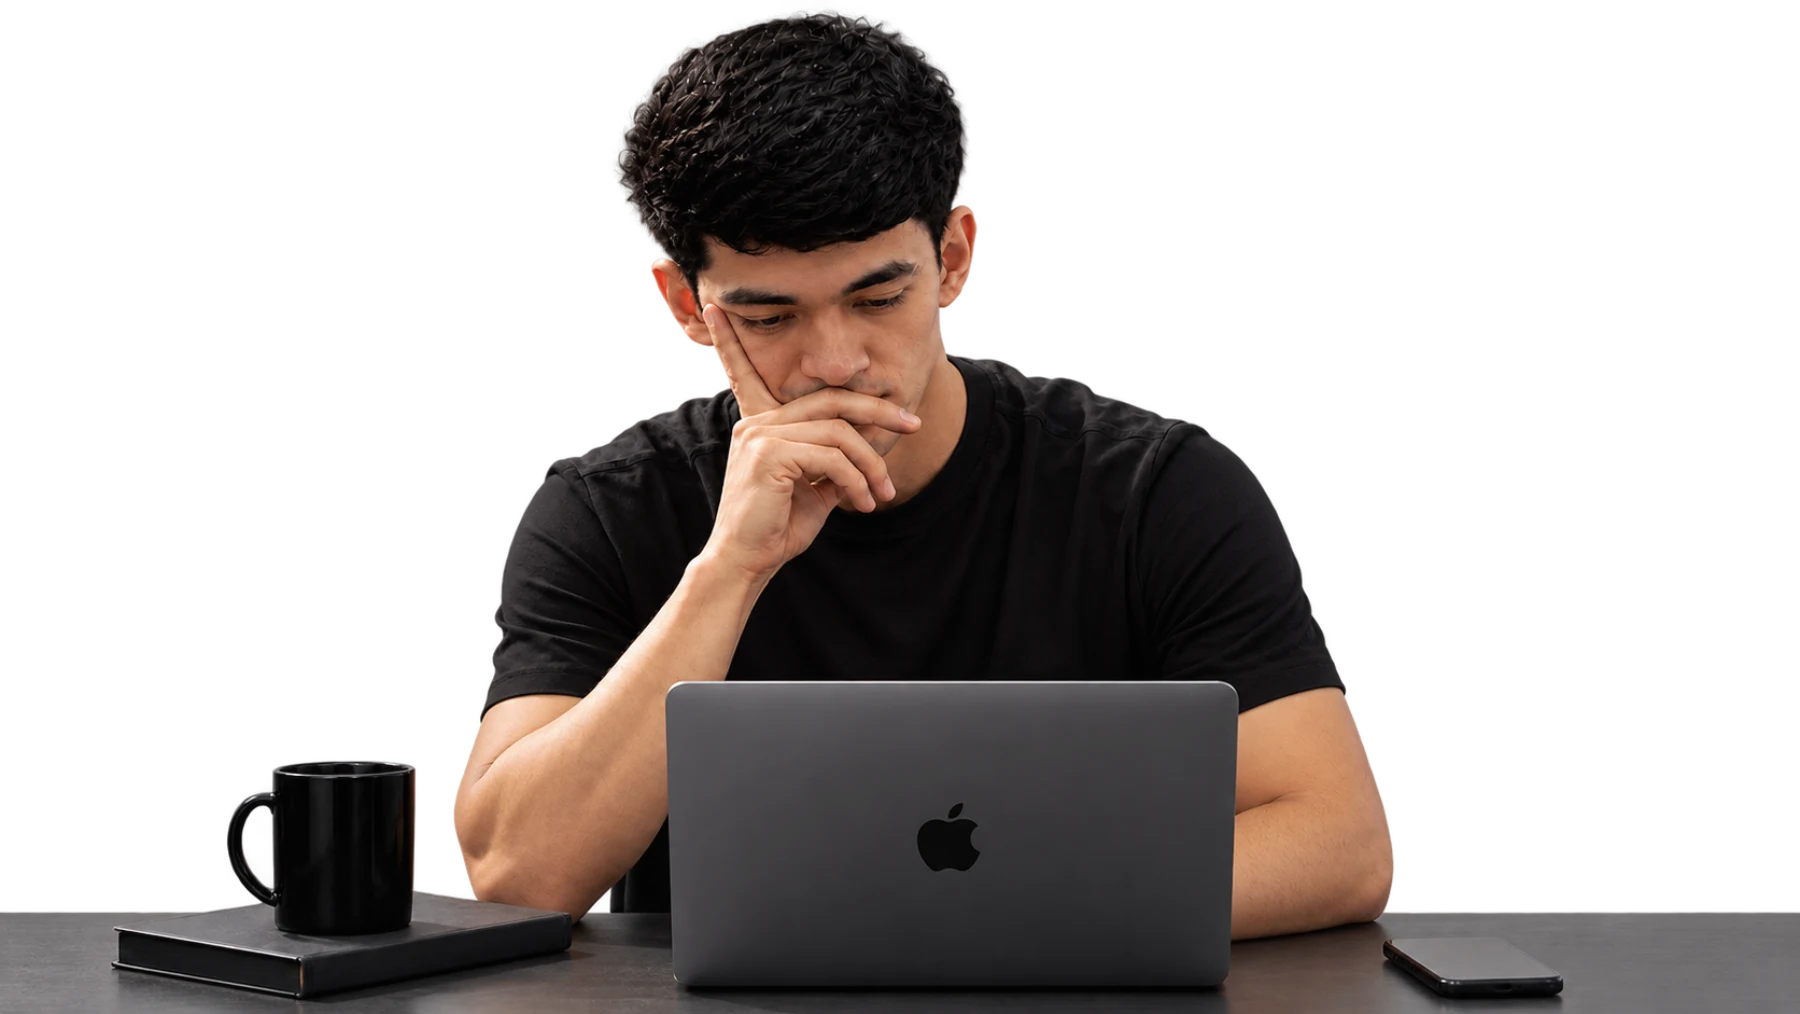
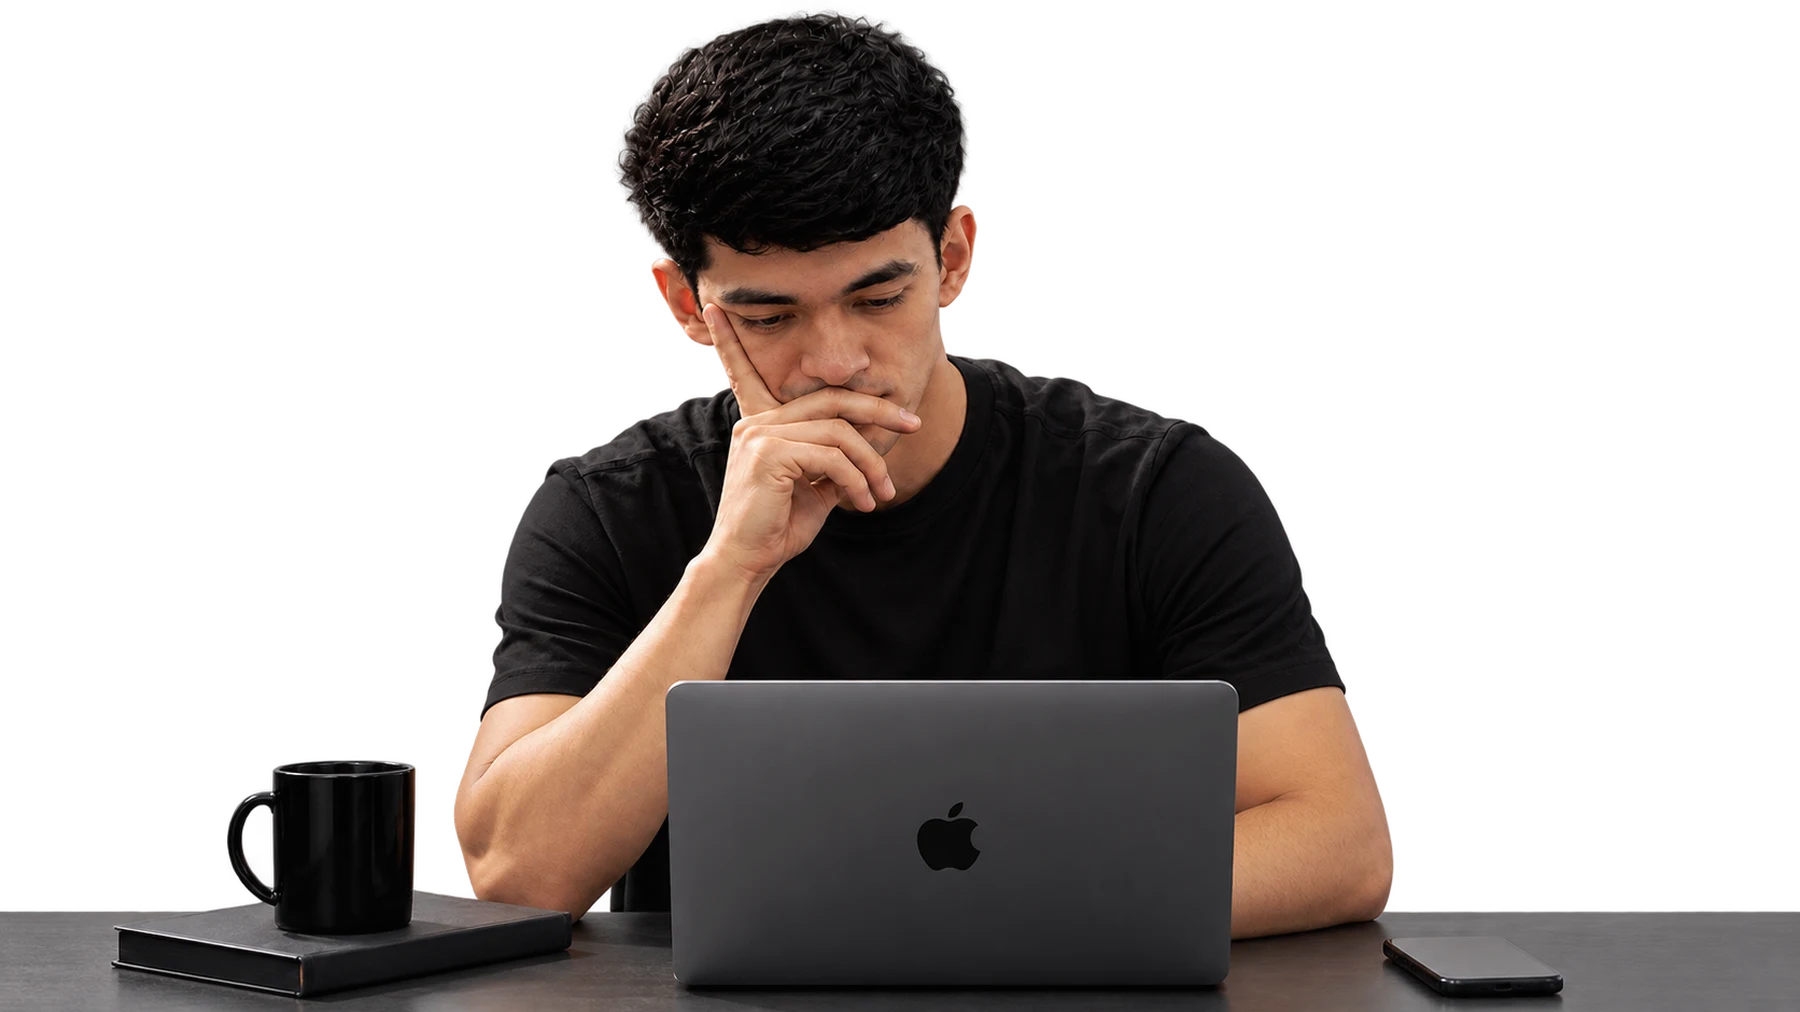
feat(hero): три слоя — снимок, слова, вырезанная фигура поверх них
hero.png вернулся фоном на весь экран. Слова лежат на нём, а сверху
тот же кадр с убранным фоном — поэтому буквы уходят за фигуру, но
комната остаётся видна. Одним изображением такой эффект недостижим,
двумя он тривиален.

Хрупкое место здесь — совмещение. Исходники различались на один
пиксель по высоте, а мои прежние конвертации разошлись на 0.15% по
соотношению: при наложении это дало бы призрачную кромку вокруг
фигуры. Оба файла пересобраны из одного кадра в один размер, и оба
слоя обязаны сохранять одинаковые классы посадки.

Закрывающий блок лежит на почти чёрном столе, поэтому он единственный
набран белым. Верхняя полоса высотой в шапку осветлена: слева в кадре
растение, и чёрный логотип в нём тонул.

diff --git a/components/sections/Opening.tsx b/components/sections/Opening.tsx
@@ -3,80 +3,103 @@ import { CTA } from '@/components/ui/CTA';
 import { site } from '@/lib/content/site';
 
 /*
- * The opening: the words are behind him, split left and right.
+ * The opening, in three layers.
  *
- * The ground is light rather than black, and that is not a preference. The
- * cut-out is a man in a black t-shirt with dark hair, a black mug and a dark
- * desk; on a black band all of that disappears and only his face and forearms
- * survive. On the warm off-white he reads whole and the type reads as ink.
+ *   1. the photograph, full bleed — wall, plant, desk, all of it
+ *   2. the words, on top of it
+ *   3. the same frame with the background cut away, on top of the words
  *
- * Everything is sized from the stage's height, never its width. An earlier
- * version sized the photograph by viewport width, and on a wide window it grew
- * taller than the space it had — cropping the top of his head — while the words
- * sat high enough to collide with the navigation. Height-driven sizing cannot
- * do either.
+ * Because layers one and three are the same shot at the same size with the same
+ * fit and the same object-position, the cut-out lands exactly over the man in
+ * the photograph. The words slip behind him while the room stays visible — an
+ * effect that is impossible with one image and trivial with two.
+ *
+ * The registration is the fragile part. Both files are exported from the same
+ * crop at the same pixel dimensions, and both images below must keep identical
+ * sizing classes. Change the fit on one and a ghost edge appears around him.
  */
+
+// The single source of truth for how both layers are placed.
+const FRAME = 'object-cover object-[58%_30%]';
+
 export function Opening() {
   return (
     <section
       data-tone="light"
-      className="relative flex h-[100svh] flex-col overflow-hidden bg-ground pt-24 md:pt-28"
+      className="relative flex h-[100svh] flex-col justify-end overflow-hidden bg-ground"
     >
-      <div className="relative flex-1">
-        {/*
-          The type layer sits at two-fifths of the stage, which is where the top
-          of the photograph lands — so the words cross him at the hairline,
-          where his silhouette is narrowest and each one keeps most of its
-          length visible. Lower down his shoulders would swallow them.
-        */}
-        <div
-          aria-hidden
-          className="shell absolute inset-x-0 top-[22%] z-0 flex items-start justify-between gap-4 md:top-[7%]"
-        >
-          <span className="text-[clamp(1.5rem,7.2vw,6.5rem)] leading-[0.85] font-extrabold tracking-[-0.045em] text-ink uppercase">
-            Цифровые
-          </span>
-          <span className="text-[clamp(1.5rem,7.2vw,6.5rem)] leading-[0.85] font-extrabold tracking-[-0.045em] text-ink uppercase">
-            продукты,
-          </span>
-        </div>
+      {/* 1. The room. */}
+      <Image
+        src="/photo/hero.webp"
+        alt=""
+        fill
+        priority
+        sizes="100vw"
+        className={`z-0 ${FRAME}`}
+      />
 
-        {/* The real heading, for anything that reads rather than looks. */}
-        <h1 className="sr-only">
-          {site.shortStatement}. {site.name}, {site.role}.
-        </h1>
-
-        {/*
-         * `contain`, filling the stage.
-         *
-         * The photograph is wide, the stage is not; sizing it by viewport width
-         * made it taller than the space it had and cropped the top of his head,
-         * and sizing it by a fraction of the stage's height left him small on a
-         * wide screen. Filling the stage and containing solves both: as large
-         * as the room allows, never cut.
-         */}
-        <Image
-          src="/photo/hero-cut.webp"
-          alt={`${site.name}, ${site.role}`}
-          fill
-          priority
-          sizes="100vw"
-          className="z-10 object-contain object-bottom"
-        />
+      {/*
+        2. The words, over the wall behind him.
+        Ink rather than paper: at this height the frame is the lit wall, and
+        white letters would disappear into it.
+      */}
+      <div
+        aria-hidden
+        className="shell absolute inset-x-0 top-[26%] z-10 flex items-start justify-between gap-4 md:top-[20%]"
+      >
+        <span className="text-[clamp(1.5rem,7.2vw,6.5rem)] leading-[0.85] font-extrabold tracking-[-0.045em] text-ink uppercase">
+          Цифровые
+        </span>
+        <span className="text-[clamp(1.5rem,7.2vw,6.5rem)] leading-[0.85] font-extrabold tracking-[-0.045em] text-ink uppercase">
+          продукты,
+        </span>
       </div>
 
-      <div className="shell relative z-20 shrink-0 pb-8 text-center md:pb-10">
-        <p className="text-[clamp(1.375rem,4.4vw,3.25rem)] leading-[0.9] font-extrabold tracking-[-0.04em] uppercase">
-          С характером
-        </p>
+      {/* 3. Him, cut out, in front of the words. */}
+      <Image
+        src="/photo/hero-cut.webp"
+        alt={`${site.name}, ${site.role}`}
+        fill
+        priority
+        sizes="100vw"
+        className={`z-20 ${FRAME}`}
+      />
 
-        <p className="mx-auto mt-6 max-w-lg text-sm leading-relaxed text-ink-2 md:text-base">
-          {site.difference}
-        </p>
+      {/*
+        A light strip the height of the header, and no taller.
+        The plant occupies the top-left of this frame, and the wordmark is cut
+        black — over the leaves it vanished. Lifting only the strip the chrome
+        occupies costs the photograph nothing anyone looks at.
+      */}
+      <div
+        aria-hidden
+        className="absolute inset-x-0 top-0 z-30 h-28 bg-gradient-to-b from-white/85 to-transparent md:h-32"
+      />
 
-        <CTA href="/start" size="lg" className="mt-8">
-          {site.heroCta}
-        </CTA>
+      <h1 className="sr-only">
+        {site.shortStatement}. {site.name}, {site.role}.
+      </h1>
+
+      {/*
+        The closing block sits over the desk, which is nearly black in the
+        photograph — so this is the one part of the opening set in paper. A
+        gradient carries it, because the desk's edge crosses the text and a flat
+        scrim would flatten the room behind it.
+      */}
+      <div className="relative z-30 w-full bg-gradient-to-t from-black/80 via-black/55 to-transparent pt-24 pb-10">
+        <div className="shell text-center">
+          <p className="text-[clamp(1.375rem,4.4vw,3.25rem)] leading-[0.9] font-extrabold tracking-[-0.04em] text-paper uppercase">
+            С характером
+          </p>
+
+          <p className="mx-auto mt-5 max-w-lg text-sm leading-relaxed text-paper/75 md:text-base">
+            {site.difference}
+          </p>
+
+          <CTA href="/start" tone="dark" size="lg" className="mt-8">
+            {site.heroCta}
+          </CTA>
+        </div>
       </div>
     </section>
   );
